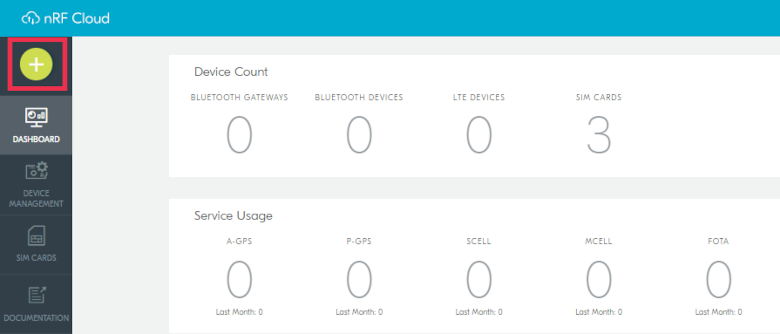
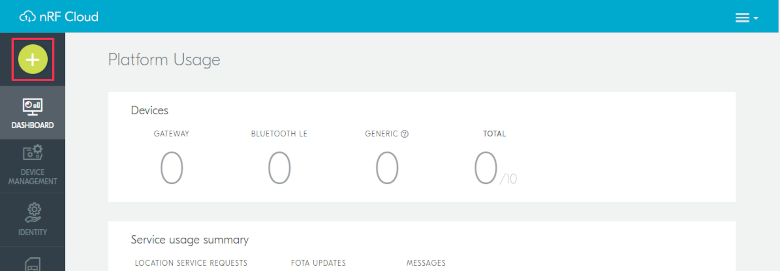
doc: update pictures and description of Connecting to nRF Cloud
The process is slightly changing in the nRF Cloud portal.
This updates the process description and images in the Getting started
guides to match.

diff --git a/doc/nrf/working_with_nrf/nrf91/nrf9160_gs.rst b/doc/nrf/working_with_nrf/nrf91/nrf9160_gs.rst
@@ -248,11 +248,11 @@ You must activate your SIM card and add the |DK| to your nRF Cloud account.
 
 .. note::
 
-   If you activated your iBasis SIM card before, click :guilabel:`Skip this step` in Step 4 instead of filling in the information.
+   If you activated your iBasis SIM card before, click the :guilabel:`Skip SIM setup` in Step 4 instead of filling in the information.
 
-   If you are using a SIM card from another provider, make sure you activate it through your network operator, then click :guilabel:`Skip this step` in Step 4 instead of filling in the information.
+   If you are using a SIM card from another provider, make sure you activate it through your network operator, then click :guilabel:`Skip SIM setup` in Step 4 instead of filling in the information.
 
-To activate the iBasis Subscriber Identity Module (SIM) card that comes shipped with the |DK| and add the |DK| to nRF Cloud, complete the following steps:
+To activate the iBasis SIM card that comes shipped with the |DK| and add the |DK| to nRF Cloud, complete the following steps:
 
 1. Log in to the `nRF Cloud`_ portal.
 #. Click the :guilabel:`+` icon in the top left corner.
@@ -262,22 +262,22 @@ To activate the iBasis Subscriber Identity Module (SIM) card that comes shipped 
 
       nRF Cloud - Plus icon
 
-   The Add New window appears.
+   The :guilabel:`Add New` menu opens.
 
    .. figure:: images/nrfcloud_add_lte_device1.png
-      :alt: nRF Cloud - Add New window
+      :alt: nRF Cloud - Add New menu
 
-      nRF Cloud - Add New window
+      nRF Cloud - Add New menu
 
-#. In the **Add New** window, click :guilabel:`LTE Device`.
-   The **Activate SIM Card** window appears.
+#. In the :guilabel:`Add New` menu, click :guilabel:`LTE Device`.
+   The **Add LTE Device** page opens in the **Verify SIM Info** view.
 
    .. figure:: images/nrfcloud_activating_sim.png
-      :alt: nRF Cloud - Activate SIM Card window
+      :alt: nRF Cloud - Add LTE Device page, Verify SIM Info view
 
-      nRF Cloud - Activate SIM Card window
+      nRF Cloud - Add LTE Device page, Verify SIM Info view
 
-#. Complete the following steps in the **Activate SIM Card** window to activate your iBasis SIM card:
+#. Complete the following steps in the **Activate SIM Card** view to activate your iBasis SIM card:
 
    a. Enter the 18-digit :term:`Integrated Circuit Card Identifier (ICCID)` or the 19-digit :term:`eUICC Identifier (EID)` in the **SIM ICCID/EID** text box.
 
@@ -291,7 +291,7 @@ To activate the iBasis Subscriber Identity Module (SIM) card that comes shipped 
    #. Accept the Terms and the Privacy Policy.
    #. Click the :guilabel:`Activate SIM` button.
 
-   After the SIM card is activated, you are redirected to the Add LTE Device window.
+   After the SIM card is activated, you are taken to the **Add LTE Device** view.
    Leave the browser window open and continue with the next step before you enter the information on this window.
 
 .. nrf_cloud_connection_end
@@ -303,16 +303,17 @@ To activate the iBasis Subscriber Identity Module (SIM) card that comes shipped 
    At this stage, the device is provisioned on nRF Cloud, but not yet associated with your nRF Cloud account.
    When the DK has connected, the **LED3** double pulse blinks to indicate that user association is required and you can move to the next step.
 
-#. In the Add LTE Device window from Step 4, enter your device ID and ownership code.
+#. In the **Add LTE Device** view from Step 4, enter your device ID and ownership code (**PIN/HWID**).
 
    .. figure:: images/nrfcloud_add_lte_device.png
-      :alt: nRF Cloud - Add LTE Device window
+      :alt: nRF Cloud - Add LTE Device view
 
-      nRF Cloud - Add LTE Device window
+      nRF Cloud - Add LTE Device view
 
    * **Device ID:** The device ID is composed of *nrf-* and the 15-digit :term:`International Mobile (Station) Equipment Identity (IMEI)` number that is printed on the label of your nRF9160 DK.
      For example, *nrf-123456789012345*.
-   * **Ownership code:** The ownership code is the PIN or the hardware ID of your DK, and it is found on the label of your nRF9160 DK.
+   * **PIN/HWID:** The ownership code is the PIN or the hardware ID of your DK, and it is found on the label of your nRF9160 DK.
+     This is not the PIN code for your SIM card.
 
      If the label contains a PIN in addition to the IMEI number, enter this pin.
      If it does not contain a PIN, enter the Hardware ID (HWID) HEX code, with or without colons.
@@ -323,7 +324,7 @@ To activate the iBasis Subscriber Identity Module (SIM) card that comes shipped 
         The ownership code serves as a password and proves that you own the specific nRF9160 DK.
         Therefore, do not share it with anyone.
 
-#. Click :guilabel:`Add Device` and wait for the device to reconnect to nRF Cloud.
+#. Click the :guilabel:`Add Device` button and wait for the device to reconnect to nRF Cloud.
    It is normal for the device to disconnect and reconnect multiple times during device provisioning.
 
 The nRF9160 DK is now added to your nRF Cloud account.

diff --git a/doc/nrf/working_with_nrf/nrf91/thingy91_gsg.rst b/doc/nrf/working_with_nrf/nrf91/thingy91_gsg.rst
@@ -543,15 +543,15 @@ Connecting to nRF Cloud
    After a few moments, the nRF Cloud user association process starts.
    This is indicated by white double pulse blinking of the Thingy:91's RGB LED as indicated in :ref:`Operating states <led_indication>`.
 
-#. In the Add LTE Device window from Step 4, enter your device ID and ownership code.
+#. In the Add LTE Device view from Step 4, enter your device ID and ownership code (**PIN/HWID**).
 
    .. figure:: images/nrfcloud_add_lte_device.png
-      :alt: nRF Cloud - Add LTE Device window
+      :alt: nRF Cloud - Add LTE Device view
 
-      nRF Cloud - Add LTE Device window
+      nRF Cloud - Add LTE Device view
 
    * **Device ID**: The device ID is composed of *nrf-* and the 15-digit :term:`International Mobile (Station) Equipment Identity (IMEI)` number that is printed on the label of your Thingy:91. It is case sensitive, so make sure all the letters are lower-case.
-   * **Ownership code**: The ownership code is the PIN or the hardware ID of your Thingy:91, and it is found on the label of your Thingy:91.
+   * **PIN/HWID**: The ownership code is the PIN or the hardware ID of your Thingy:91, and it is found on the label of your Thingy:91.
 
    .. figure:: images/thingy91_pin_imei.svg
       :alt: PIN and IMEI on Thingy:91
@@ -568,7 +568,7 @@ Connecting to nRF Cloud
       Therefore, do not share it with anyone.
 
 
-#. Click :guilabel:`Add Device`.
+#. Click the :guilabel:`Add Device` button.
 
    The message "Device added to account. Waiting for it to connect..." appears.
 
